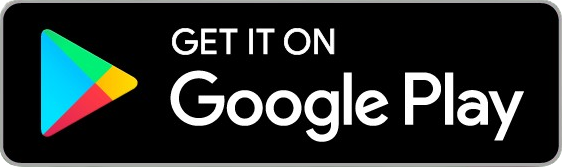
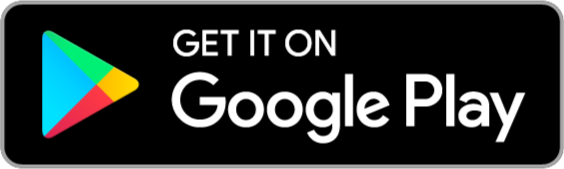
buttons images updated

diff --git a/index.html b/index.html
@@ -69,6 +69,21 @@
             transition: background-color 0.3s ease;
         }
 
+        .btn.download_btn{
+            background-color: transparent;
+            padding: 0;
+            width: 100%;
+        }
+        
+        .btn.download_btn:hover{
+            background-color: transparent;
+        }
+
+        .btn.download_btn img{
+            height: 60px;
+            width: 100%;
+            object-fit: contain;
+        }
         .btn:hover {
             background-color: #0277BD;
         }
@@ -136,10 +151,12 @@
         }
 
         .app-download-btns {
-            display: flex;
+            display: grid;
             gap: 10px;
             flex-wrap: wrap;
             align-items: center;
+            grid-template-columns: auto auto;
+            justify-content: center;
         }
     </style>
 </head>
@@ -153,10 +170,10 @@
         <p>League of Basketball (LOB) is an organization formed by the collective efforts of basketball players all over Karachi. Our mission is to establish a professional standard league for the first time in Pakistan. In addition to our flagship league, we also run WLOB for women and LOB Varsity for younger students. LOB is a non-profit organization, and our sole purpose is to enhance the basketball scene in Pakistan.</p>
 
         <div class="app-download-btns">
-            <a href="https://apps.apple.com/sn/app/league-of-basketball/id6749572941" target="_blank" class="btn">
+            <a href="https://apps.apple.com/sn/app/league-of-basketball/id6749572941" target="_blank" class="btn download_btn">
                 <img src="./images/app-store-icon.png" alt="Download ios app"/>
             </a>
-            <a href="https://pub-9d9e465f26eb4310b53d67cf931fe0cf.r2.dev/lob.apk" target="_blank" class="btn">
+            <a href="https://pub-9d9e465f26eb4310b53d67cf931fe0cf.r2.dev/lob.apk" target="_blank" class="btn download_btn">
                 <img src="./images/play-store-icon.png" alt="Download android app"/>
             </a>
         </div>
